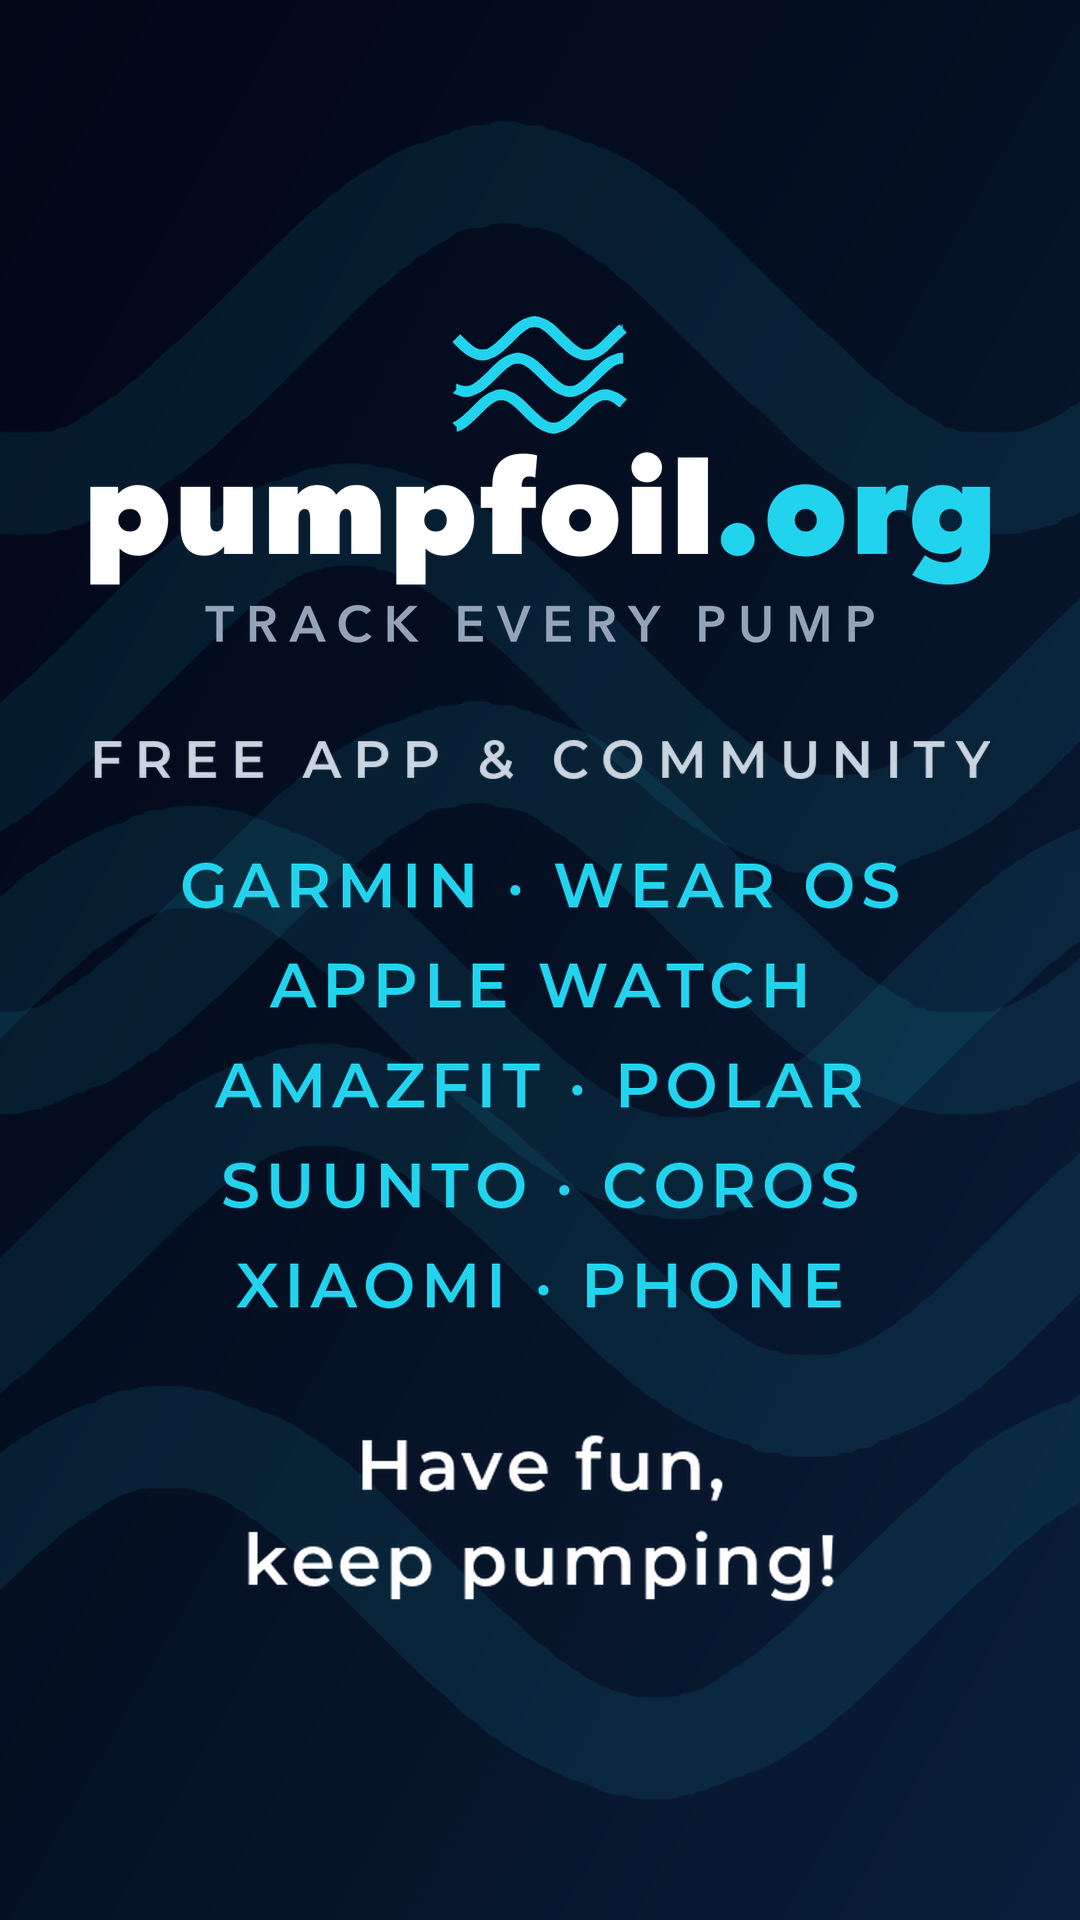
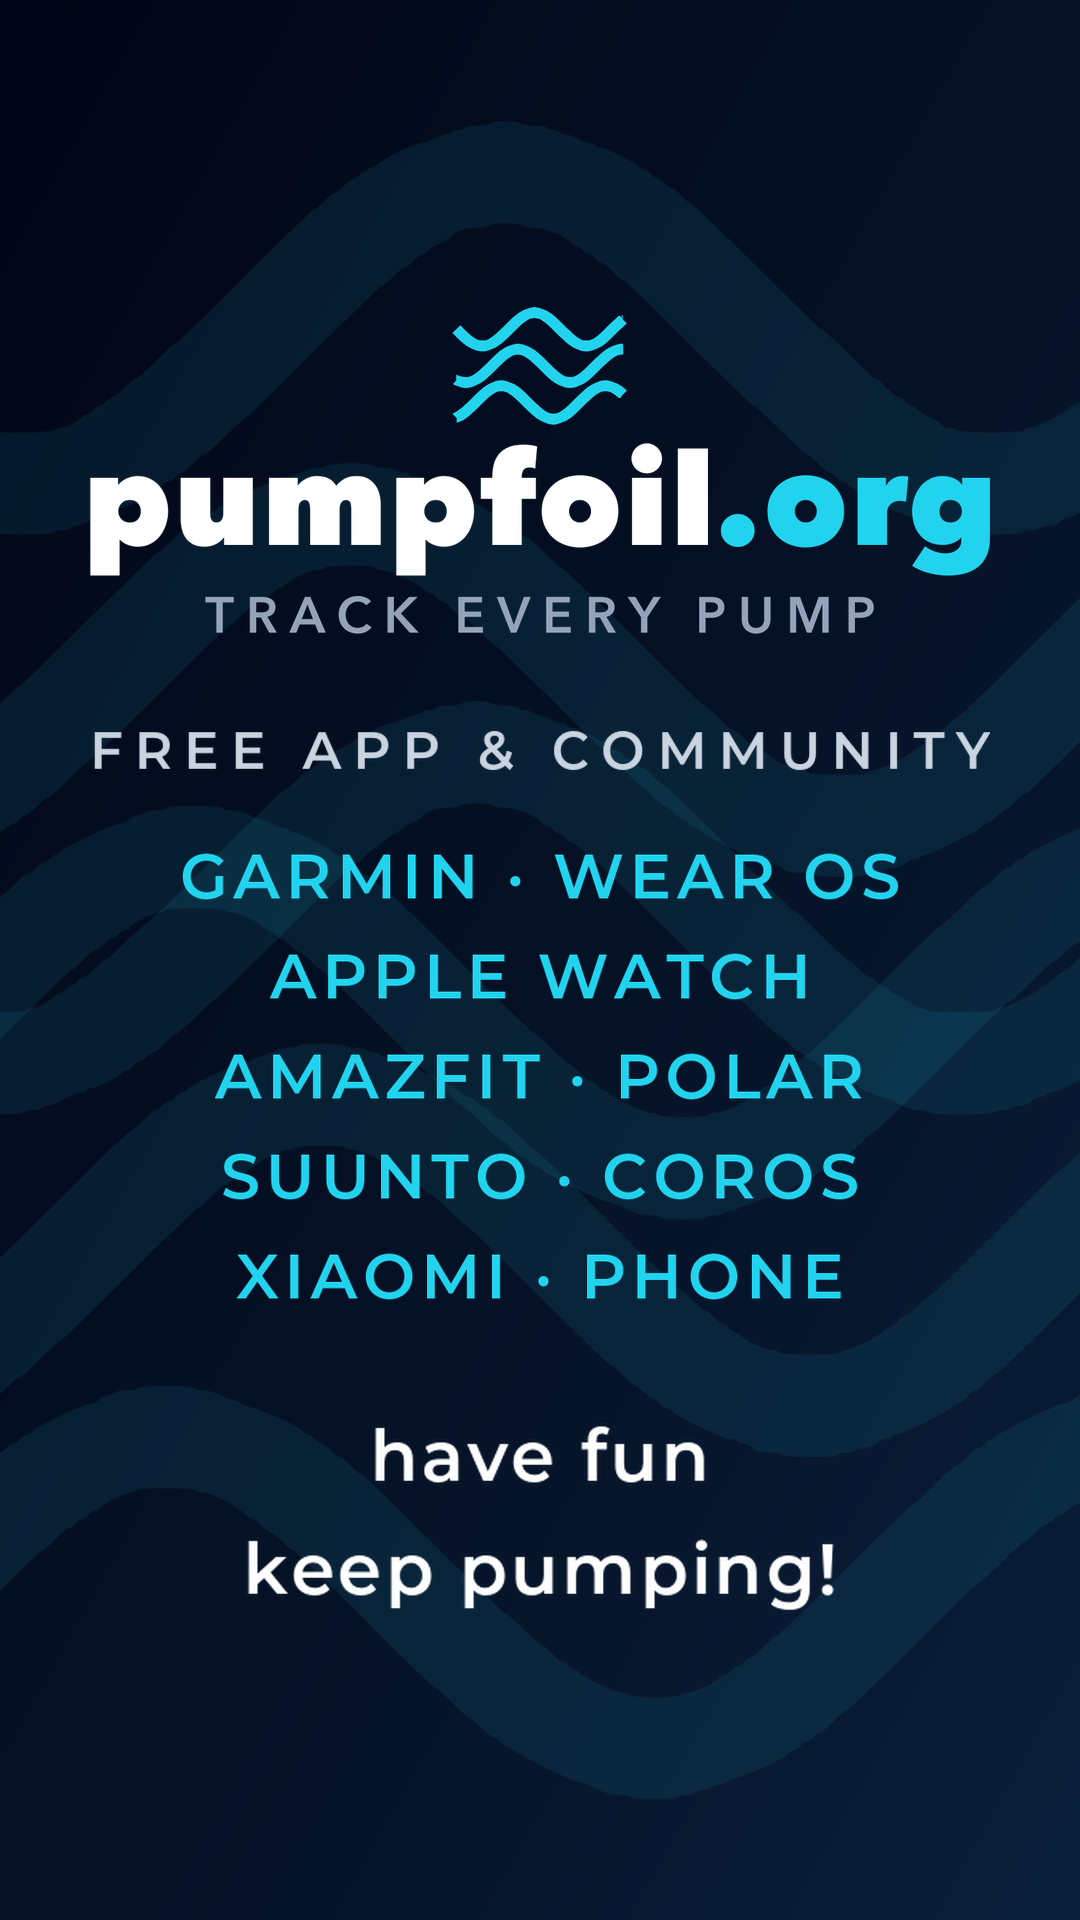
Endcards: Motto genau wie in den Videos — klein, ohne Komma, mehr Luft nach „have fun"
Claude-Session: https://claude.ai/code/session_014ScY9MsqR76xh62UDbMKg1

diff --git a/brand/master/endcard.py b/brand/master/endcard.py
@@ -37,7 +37,10 @@ CYAN_HELL = "#0e7490"
 APP_ZEILE = "FREE APP & COMMUNITY"
 # Unser Gruss, unuebersetzt — so steht er in jeder Nutzer-Nachricht und am Ende jeder
 # Ankuendigung. Auf der Endcard ist er die Unterschrift unter dem Ganzen (Jan, 04.09.).
-MOTTO = ("Have fun,", "keep pumping!")
+# Genau diese Schreibweise steht in Jans Videos: klein und ohne Komma, umgebrochen nach
+# „have fun". In Nutzer-Nachrichten schreiben wir „Have fun, keep pumping!" — hier ist es
+# die Bildmarke, dort ein Satz.
+MOTTO = ("have fun", "keep pumping!")
 
 
 def verlauf(farben: tuple[str, str, str]) -> Image.Image:
@@ -118,7 +121,7 @@ def endcard(theme: str) -> Image.Image:
         voll_m = Image.new("RGBA", z.size, (r, g, b, 255))
         voll_m.putalpha(z.split()[3])
         motto[i] = voll_m
-    motto_zeilenabstand = round(motto[0].height * 0.08)
+    motto_zeilenabstand = round(motto[0].height * 0.28)   # Luft nach „have fun"
     motto_h = sum(z.height for z in motto) + motto_zeilenabstand * (len(motto) - 1)
 
     abstand = 84                                   # Lockup -> Einleitung
